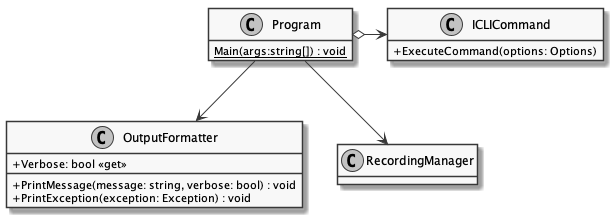
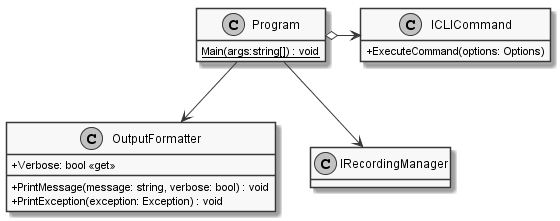
Introduce interfaces, add StorageStrategy, adjust visibility and diagrams

Changed region(s): [[0.0, 0.4424, 0.5161, 0.9954], [0.3339, 0.0276, 1.0, 0.8848], [0.3643, 0.3594, 0.3946, 0.4424]]

diff --git a/documents/sd/chapter/Classes/Core/MORR/MORR.tex b/documents/sd/chapter/Classes/Core/MORR/MORR.tex
@@ -2,15 +2,44 @@
 
 \subsection*{MORR.Core.Recording}
 
+\begin{interface}{IRecordingManager}
+    \clsdiagram[width=0.35\textwidth]{resources/Classes/Core/MORR/IRecordingManager.png}
+
+    \clsdcl{public interface IRecordingManager}
+
+    \clsdsp{Responsible for managing all aspects of recording. Holds all other current managers, the used encoder/decoder and video capture instances.}
+
+    \begin{attributes}
+        \attribute{public bool IsRecording \{ get; \}}{Indicate whether a session is currently being recorded. True if a session is currently being recorded, false otherwise.}
+    \end{attributes}
+
+    \begin{methods}
+        \begin{method}{public void StartRecording()}{Starts a recording if no session is currently being recorded.}
+            \begin{exceptions}
+                \excp{AlreadyRecordingException}{Thrown if a recording is started while another recording is already running.}
+            \end{exceptions}
+        \end{method}
+        \begin{method}{public void StopRecording()}{Stops a recording if a session is currently being recorded.}
+            \begin{exceptions}
+                \excp{NotRecordingException}{Thrown if a recording is stopped while no recording is currently running.}
+            \end{exceptions}
+        \end{method}
+    \end{methods}
+\end{interface}
+
 \begin{class}{RecordingManager}
     \clsdiagram[width=0.35\textwidth]{resources/Classes/Core/MORR/RecordingManager.png}
 
-    \clsdcl{public class RecordingManager}
+    \clsdcl{public class RecordingManager : IRecordingManager}
 
     \clsdsp{Responsible for managing all aspects of recording. Holds all other current managers and the used encoder/decoder.}
 
     \begin{attributes}
         \attribute{public bool IsRecording \{ get; private set; \}}{Indicates whether a session is currently being recorded. True if a session is currently being recorded, false otherwise.}
+        \attribute{private IEncoder encoder}{The IEncoder that this recording manager uses during encoding of a recording.}
+        \attribute{private IDecoder decoder}{The IDecoder that this recording manager uses during decoding of a recording.}
+        \attribute{private IVideoCapture videoCapture}{The IVideoCapture instance that provides VideoSamples to the used encoder during a recording.}
+        \attribute{public [ImportMany] IEnumerable<EventQueue<Event>> EventQueues \{ get; private set;\}}{Provides access to the event queues to link encoders and decoders to the pipeline.}
     \end{attributes}
 
     \begin{methods}
@@ -55,10 +84,26 @@
 
 \subsection*{MORR.Core}
 
+\begin{interface}{IBootstrapper}
+    \clsdiagram[width=0.4\textwidth]{resources/Classes/Core/MORR/IBootstrapper.png}
+
+    \clsdcl{public interface IBootstrapper}
+
+    \clsdsp{Responsible for bootstrapping the application and providing compositional facilities using MEF.}
+
+    \begin{methods}
+        \begin{method}{public void ComposeImports(object @object)}{Satisifies the imports on the specified object using MEF.}
+        \begin{parameters}
+            \para{object @object}{The object to satisfy the imports on.}
+        \end{parameters}
+    \end{method}
+    \end{methods}
+\end{interface}
+
 \begin{class}{Bootstrapper}
     \clsdiagram[width=0.4\textwidth]{resources/Classes/Core/MORR/Bootstrapper.png}
 
-    \clsdcl{public class Bootstrapper}
+    \clsdcl{public class Bootstrapper : IBootstrapper}
 
     \clsdsp{Responsible for bootstrapping the application and providing compositional facilities using MEF.}
 
@@ -73,10 +118,33 @@
 
 \subsection*{MORR.Core.Configuration}
 
+\begin{interface}{IConfigurationManager}
+    \clsdiagram[width=0.6\textwidth]{resources/Classes/Core/MORR/IConfigurationManager.png}
+
+    \clsdcl{public interface IConfigurationManager}
+
+    \clsdsp{Loads the application's configuration from a file and manages the IConfiguration instances that are distributed to all objects requiring configuration.}
+
+    \begin{attributes}
+        \attribute{[ImportMany] public IEnumerable<IConfiguration> Configurations \{ get; private set; \}}{All available IConfiguration instances.}
+    \end{attributes}
+
+    \begin{methods}
+        \begin{method}{public void LoadConfiguration(string path)}{Loads the configuration in .json format from the specified part and initializes all IConfiguration instances.}
+            \begin{parameters}
+                \para{string path}{The path to load the configuration from.}
+            \end{parameters}
+            \begin{exceptions}
+                \excp{InvalidConfigurationException}{Exception thrown if the specified configuration is invalid.}
+            \end{exceptions}
+        \end{method}
+    \end{methods}
+\end{interface}
+
 \begin{class}{ConfigurationManager}
     \clsdiagram[width=0.6\textwidth]{resources/Classes/Core/MORR/ConfigurationManager.png}
 
-    \clsdcl{public class ConfigurationManager}
+    \clsdcl{public class ConfigurationManager : IConfigurationManager}
 
     \clsdsp{Loads the application's configuration from a file and manages the IConfiguration instances that are distributed to all objects requiring configuration.}
 
@@ -108,10 +176,29 @@
 
 \subsection*{MORR.Core.ModuleManagement}
 
+\begin{interface}{IModuleManager}
+    \clsdiagram[width=0.6\textwidth]{resources/Classes/Core/MORR/IModuleManager.png}
+
+    \clsdcl{public interface IModuleManager}
+
+    \clsdsp{Initializes all modules and manages the status during runtime.}
+
+    \begin{attributes}
+        \attribute{[ImportMany] public IEnumerable<IModule> Modules \{ get; private set; \}}{All IModule instances available through MEF.}
+        \attribute{[ImportMany] public IEnumerable<ICollectingModule> CollectingModules \{ get; private set;\}}{All ICollectingModule instances available through MEF.}
+        \attribute{[Import] public GlobalModuleConfiguration ModuleConfiguration \{ get; private set;\}}{The IConfiguration instance specifying configuration options regarding all modules.}
+    \end{attributes}
+
+    \begin{methods}
+        \begin{method}{public void InitializeModules()}{Initializes all modules according to the configuration}      
+        \end{method}
+    \end{methods}
+\end{interface}
+
 \begin{class}{ModuleManager}
     \clsdiagram[width=0.6\textwidth]{resources/Classes/Core/MORR/ModuleManager.png}
 
-    \clsdcl{public class ModuleManager}
+    \clsdcl{public class ModuleManager : IModuleManager}
 
     \clsdsp{Initializes all modules and manages the status during runtime.}
 

diff --git a/documents/sd/chapter/Classes/Common/Events/Events.tex b/documents/sd/chapter/Classes/Common/Events/Events.tex
@@ -47,14 +47,65 @@
 
     \clsdsp{Provides a single-writer-multiple-reader queue for Event types}
 
+    \begin{attributes}
+        \attribute{private IEventQueueStorageStrategy<T> storageStrategy}{The storage strategy to use.}
+    \end{attributes}
+
     \begin{methods}
         \begin{method}{public abstract IAsyncEnumerable<T> GetEvents()}{Asynchronously gets all events as concrete type T.}
             \return{IAsyncEnumerable<T>}{A stream of events of type T.}
         \end{method}
-        \begin{method}{protected abstract void Enqueue(T @event)}{Asynchronosuly enqueues a new event of type T.}
+        \begin{method}{protected abstract void Enqueue(T @event)}{Asynchronously enqueues a new event of type T.}
             \begin{parameters}
                 \para{T @event}{The event to enqueue.}
             \end{parameters}
         \end{method}
     \end{methods}
 \end{absclass}
+
+\begin{interface}{IEventQueueStorageStrategy}
+    \clsdiagram[width=0.4\textwidth]{resources/Classes/Common/Shared/Events/IEventQueueStorageStrategy.png}
+
+    \clsdcl{public interface IEventQueueStorageStrategy<T> where T : Event}
+
+    \clsdsp{Provides the backing store of an EventQueue with a specific storage strategy.}
+
+    \begin{methods}
+        \begin{method}{public IAsyncEnumerable<T> GetEventsInternal()}{Asynchronously gets all events as concrete type T from this storage strategy.}
+            \return{IAsyncEnumerable<T>}{A stream of events of type T.}
+        \end{method}
+        \begin{method}{public void Enqueue(T @event)}{Asynchronously enqueues a new event of type T with this storage strategy.}
+            \begin{parameters}
+                \para{T @event}{The event to enqueue.}
+            \end{parameters}
+        \end{method}
+    \end{methods}
+\end{interface}
+
+\begin{class}{RingBufferStorageStrategy}
+    \clsdiagram[width=0.4\textwidth]{resources/Classes/Common/Shared/Events/RingBufferStorageStrategy.png}
+
+    \clsdcl{public class RingBufferStorageStrategy<T> : IEventQueueStorageStrategy<T> where T : Event}
+
+    \clsdsp{Provides event storage using a ring buffer strategy. That means if the buffer is full, events will be overwritten even if they have not been read by all consumers yet.}
+
+    \begin{attributes}
+        \attribute{public uint Capacity \{ get; set; \}}{The capacity of the ring buffer.}
+    \end{attributes}
+\end{class}
+
+\begin{class}{RefCountedListStorageStrategy}
+    \clsdiagram[width=0.4\textwidth]{resources/Classes/Common/Shared/Events/RefCountedListStorageStrategy.png}
+
+    \clsdcl{public class RefCountedListStorageStrategy<T> : IEventQueueStorageStrategy<T> where T : Event}
+
+    \clsdsp{Provides event storage using a reference counted list strategy. That means that events will be deleted from the list they are stored in if all consumers have read them.}
+\end{class}
+
+\begin{class}{KeepAllStorageStrategy}
+    \clsdiagram[width=0.4\textwidth]{resources/Classes/Common/Shared/Events/KeepAllStorageStrategy.png}
+
+    \clsdcl{public class KeepAllStorageStrategy<T> : IEventQueueStorageStrategy<T> where T : Event}
+
+    \clsdsp{Provides event storage using a keep all strategy. That means that events that have been enqueued will not be removed from the queue.}
+\end{class}

diff --git a/documents/sd/chapter/Classes/Core/MORR/Data/Transcoding/WinAPI/WinAPI_Transcoding.tex b/documents/sd/chapter/Classes/Core/MORR/Data/Transcoding/WinAPI/WinAPI_Transcoding.tex
@@ -3,7 +3,7 @@
 \begin{class}{MPEGEncoder}
     \clsdiagram[width=0.7\textwidth]{resources/Classes/Core/MORR/Transcoding/WinAPI/MPEGEncoder.png}
 
-    \clsdcl{public class MPEGEncoder : IEncoder}
+    \clsdcl{internal class MPEGEncoder : IEncoder, IReceivingModule}
     
     \clsdsp{Encodes the provided samples into a file at a path in MPEG format using the Windows API.}
 
@@ -25,7 +25,7 @@
 \begin{class}{MPEGEncoderConfiguration}
     \clsdiagram[width=0.35\textwidth]{resources/Classes/Core/MORR/Transcoding/WinAPI/MPEGEncoderConfiguration.png}
 
-    \clsdcl{public class MPEGEncoderConfiguration : IConfiguration}
+    \clsdcl{internal class MPEGEncoderConfiguration : IConfiguration}
 
     \clsdsp{Encapsulates all MPEGEncoder configuration options.}
 
@@ -48,7 +48,7 @@
 \begin{class}{MPEGDecoder}
     \clsdiagram[width=0.7\textwidth]{resources/Classes/Core/MORR/Transcoding/WinAPI/MPEGDecoder.png}
 
-    \clsdcl{public class MPEGDecoder : IDecoder}
+    \clsdcl{internal class MPEGDecoder : IDecoder}
 
     \clsdsp{Decodes samples stored in a file in MPEG format at a path using the Windows API and provides the decoded samples.}
 
@@ -73,7 +73,7 @@
 \begin{class}{MPEGDecoderConfiguration}
     \clsdiagram[width=0.35\textwidth]{resources/Classes/Core/MORR/Transcoding/WinAPI/MPEGDecoderConfiguration.png}
 
-    \clsdcl{public class MPEGDecoderConfiguration : IConfiguration}
+    \clsdcl{internal class MPEGDecoderConfiguration : IConfiguration}
 
     \clsdsp{Encapsulates all MPEGDecoder configuration options.}
 

diff --git a/documents/sd/chapter/Classes/Core/CLI/Classes/Command.tex b/documents/sd/chapter/Classes/Core/CLI/Classes/Command.tex
@@ -27,12 +27,14 @@
 	
 	\clsdcl{public class ProcessCommand : ICLICommand }
 	
-	\begin{attributes}
-		\attribute{public RecordingManager recordingManager}{The recording manager is the connection to the main application which is used to load all modules and process the decoded events through the pipeline and finally decode it. }
-		
-		\attribute{public IDecoder decoder}{The decoder is used to decode the given recording container and receive the captured events from it. }
-	\end{attributes}
-	
+	\begin{constructors}
+		\begin{constructor}{public ProcessCommand(IRecordingManager recordingManager)}{Creates a new instance of the ProcessCommand which will use the provided IRecordingManager for decoding.}
+			\begin{parameters}
+				\para{IRecordingManager recordingManager}{The IRecordingManager to use.}
+			\end{parameters}
+		\end{constructor}
+	\end{constructors}
+
 	\begin{methods}
 		\begin{method}{void ExecuteCommand(ProcessOptions options)}{\\ Executes the implementing command using the options given to it.}
 		

diff --git a/documents/sd/chapter/Classes/Core/MORR/Data/Transcoding/Metadata/MetadataTranscoding.tex b/documents/sd/chapter/Classes/Core/MORR/Data/Transcoding/Metadata/MetadataTranscoding.tex
@@ -27,7 +27,7 @@
 \begin{class}{MetadataEncodingException}
     \clsdiagram[width=0.3\textwidth]{resources/Classes/Core/MORR/Transcoding/Metadata/MetadataEncodingException.png}
 
-    \clsdcl{MetadataEncodingException : EncodingException}
+    \clsdcl{public MetadataEncodingException : EncodingException}
 
     \clsdsp{An exception thrown if metadata encoding fails.}
 \end{class}
@@ -35,7 +35,7 @@
 \begin{class}{MetadataDecodingException}
     \clsdiagram[width=0.3\textwidth]{resources/Classes/Core/MORR/Transcoding/Metadata/MetadataDecodingException.png}
 
-    \clsdcl{MetadataDecodingException : DecodingException}
+    \clsdcl{public MetadataDecodingException : DecodingException}
 
     \clsdsp{An exception thrown if metadata decoding fails.}
 \end{class}

diff --git a/documents/sd/chapter/Classes/Core/MORR/Data/Transcoding/Video/VideoTranscoding.tex b/documents/sd/chapter/Classes/Core/MORR/Data/Transcoding/Video/VideoTranscoding.tex
@@ -27,7 +27,7 @@
 \begin{class}{VideoEncodingException}
     \clsdiagram[width=0.3\textwidth]{resources/Classes/Core/MORR/Transcoding/Video/VideoEncodingException.png}
 
-    \clsdcl{VideoEncodingException : EncodingException}
+    \clsdcl{public VideoEncodingException : EncodingException}
 
     \clsdsp{An exception thrown if video encoding fails.}
 \end{class}
@@ -35,7 +35,7 @@
 \begin{class}{VideoDecodingException}
     \clsdiagram[width=0.3\textwidth]{resources/Classes/Core/MORR/Transcoding/Video/VideoDecodingException.png}
 
-    \clsdcl{VideoDecodingException : DecodingException}
+    \clsdcl{public VideoDecodingException : DecodingException}
 
     \clsdsp{An exception thrown if video decoding fails.}
 \end{class}

diff --git a/documents/sd/chapter/class.tex b/documents/sd/chapter/class.tex
@@ -93,8 +93,6 @@
 % para1: declaration para2: description
 \newcommand{\return}[2]{\textbf{Return values:} \begin{itemize} \item \texttt{#1} \\ Description: #2 \end{itemize}}
 
-\input{chapter/Classes/DummyNamespace/DummyNamespace}
-\newpage
 \input{chapter/Classes/Core/Core}
 \newpage
 \input{chapter/Classes/Modules/Modules}
